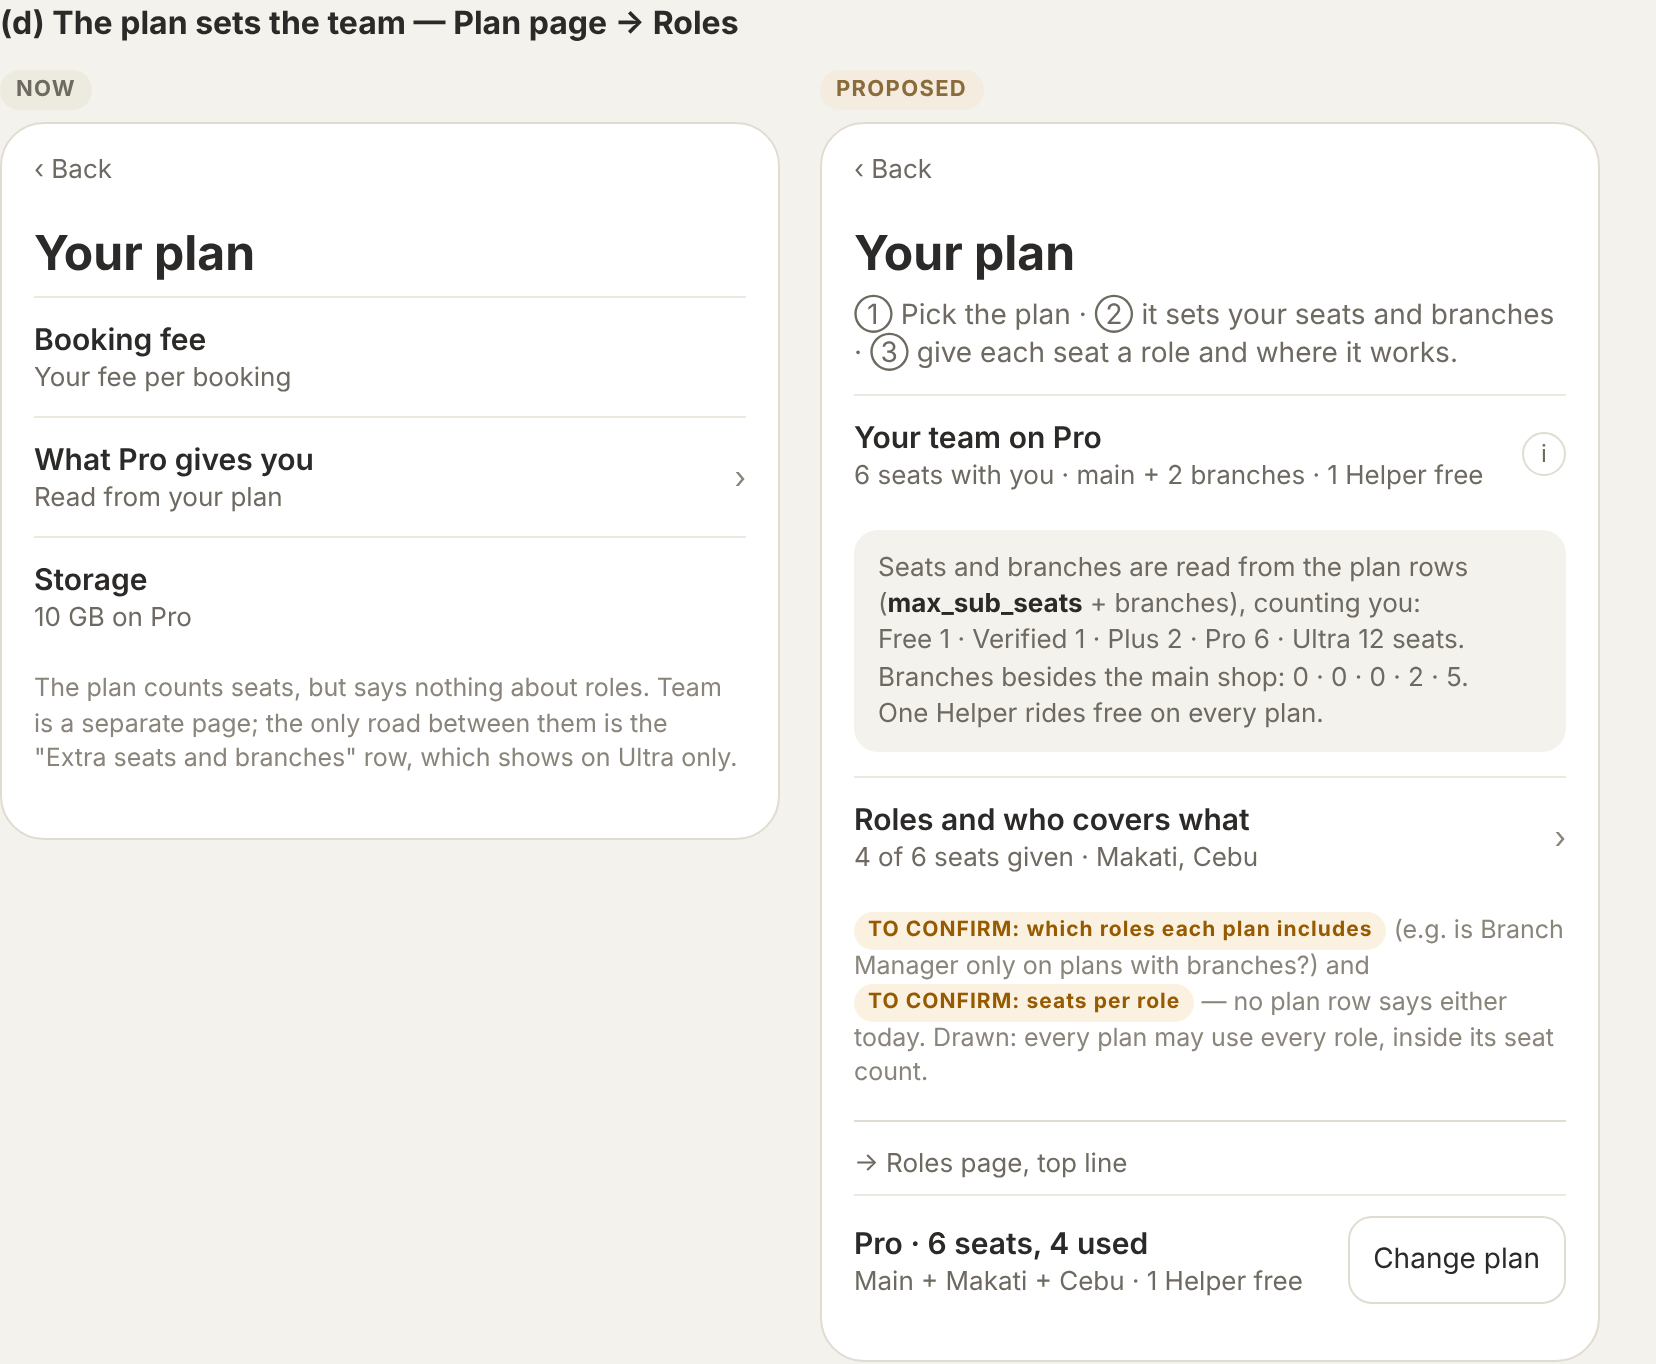
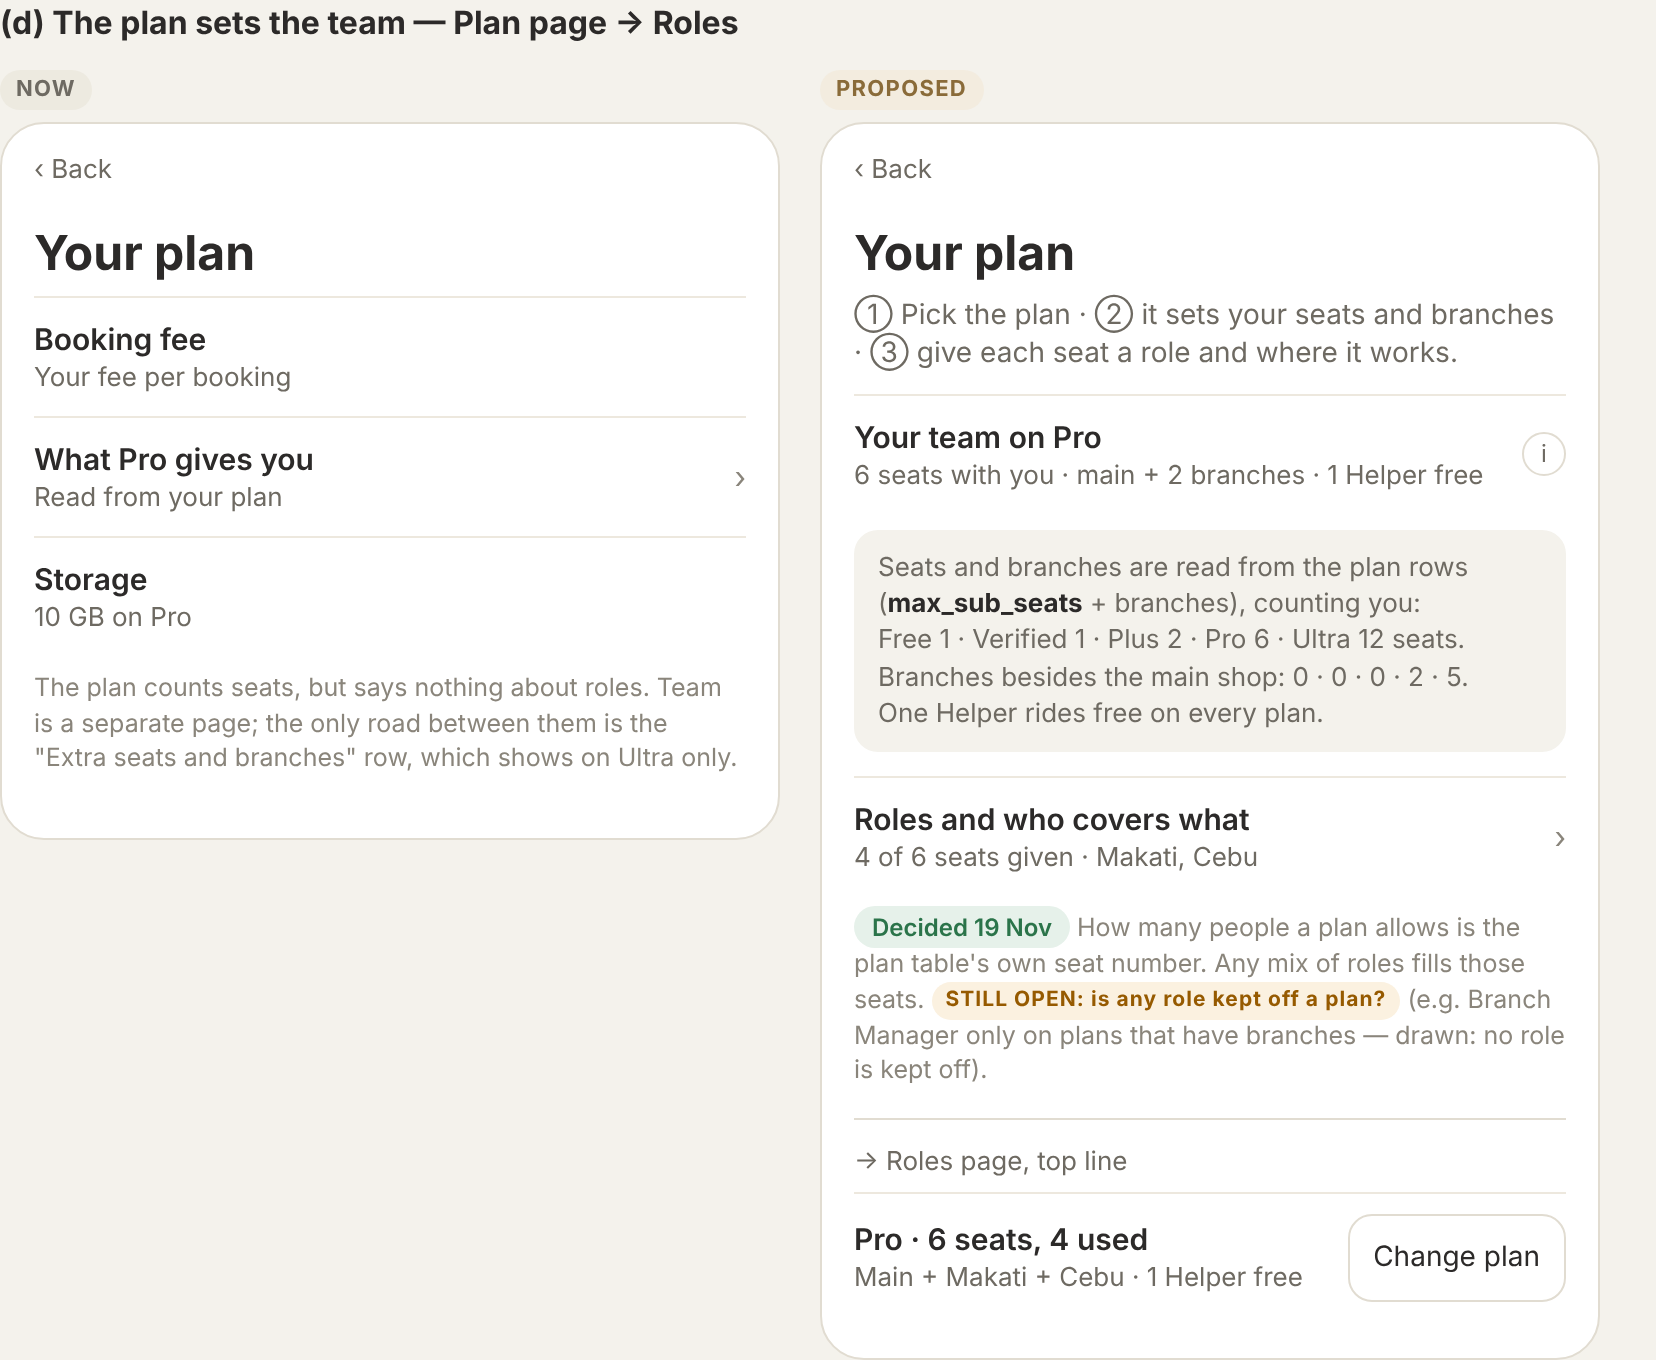
docs(supplier-team): owner answers — seats from the plan table, celebrant's last name routes, away falls to next AM then Branch Manager
Claude-Session: https://claude.ai/code/session_01EvosmSvHajsHkKkQLLinZb

diff --git a/build-sessions/SUPPLIER-ROLES-PAGE-2026-11-19.html b/build-sessions/SUPPLIER-ROLES-PAGE-2026-11-19.html
@@ -312,7 +312,7 @@
               </div></details>
             </div>
             <div class="row"><div class="grow"><div class="t">Roles and who covers what</div><div class="l">4 of 6 seats given · Makati, Cebu</div></div><span style="color:var(--slate-3)">›</span></div>
-            <p class="note"><span class="confirm">TO CONFIRM: which roles each plan includes</span> (e.g. is Branch Manager only on plans with branches?) and <span class="confirm">TO CONFIRM: seats per role</span> — no plan row says either today. Drawn: every plan may use every role, inside its seat count.</p>
+            <p class="note"><span class="badge ok">Decided 19 Nov</span> How many people a plan allows is the plan table's own seat number. Any mix of roles fills those seats. <span class="confirm">STILL OPEN: is any role kept off a plan?</span> (e.g. Branch Manager only on plans that have branches — drawn: no role is kept off).</p>
 
             <div style="margin-top:14px;padding-top:12px;border-top:1px solid var(--line)">
               <div class="l" style="margin-bottom:6px">→ Roles page, top line</div>
@@ -374,8 +374,8 @@
             </div>
 
             <p class="note">
-              <span class="confirm">TO CONFIRM: whose last name counts</span> — drawn: the person who sent the inquiry.<br>
-              <span class="confirm">TO CONFIRM: when that Account Manager is away</span> — drawn: it goes to the next Account Manager in the branch, then the Branch Manager.
+              <span class="badge ok">Decided 19 Nov</span> Whose last name: the main celebrant's (the groom, for a wedding); if the inquiry doesn't say, the person who sent it.<br>
+              <span class="badge ok">Decided 19 Nov</span> When that Account Manager is away: the next Account Manager in the branch, then the Branch Manager.
             </p>
           </div>
         </div>

diff --git a/build-sessions/SUPPLIER-ROLES-MAP-2026-11-19.md b/build-sessions/SUPPLIER-ROLES-MAP-2026-11-19.md
@@ -36,7 +36,7 @@ here; its rule is mirrored in code (`canManageVendor` → full nav) and is kept 
 | 1 | **Shop Manager** `shop_manager` | `admin` | Everything: team, plan, branches, money, shop page, all clients, day-of console. | Same. "Sees everything including branches." Unchanged. |
 | 2 | **Branch Manager** `branch_manager` | none (`admin` is whole-shop; `agent`+`whole_branch_keys` gives the branch's services but no team/money) | — | Everything a Shop Manager has, **for one branch**: that branch's clients, bookings, payments, event days, its team (invite/assign at or below their level, within the branch), its branch settings. Not the plan, not other branches, not shop-wide money settings. |
 | 3 | **Account Manager** `account_manager` | `agent` | Today + Clients for their assigned services (`vendor_service_agents`). No payments screen, day-of only with a grant. | Bookings, chat, payments and event day **for their own clients**, on their branch. One role (owner: "this is one role"). Their clients' event days without a separate grant. |
-| 4 | **Marketing** `marketing` | none | — | Shop page, cards, photos, promos, ads. **No bookings, no clients, no money.** Whole shop (TO CONFIRM). |
+| 4 | **Marketing** `marketing` | none | — | Shop page, cards, photos, promos, ads. **No bookings, no clients, no money.** Whole shop (decided 19 Nov). |
 | 5 | **Event Crew** `event_crew` | `viewer` + `vendor_event_access_grants` | Today (read) + the day-of console for granted events. | Hub and photos **for the events they're given** only. Nothing else. |
 | 6 | **Helper** `helper` | `viewer` | Today + Clients, read-only. | Sees the schedule, changes nothing. Stays the free seat (`FREE_HELPER_ROLE`). |
 
@@ -134,8 +134,9 @@ Plus one free Helper on every plan (`FREE_HELPER_SEATS`). ⚠ The live DB was **
 re-measure with `select sku_code, max_sub_seats from vendor_billing_catalog where sku_code like '%vendor_%'`. That
 migration names the top plan "Max" while the app labels `enterprise` "Ultra" — the drawing uses the app's label.
 
-**No plan row says which ROLES a plan includes, or how many seats each role may take** → both are drawn as
-**TO CONFIRM** (drawn default: every plan may use every role inside its seat count). Delta: the Plan page gets a
+**DECIDED (owner 19 Nov):** how many people a plan allows is the table's seat number (*"this is on our table
+already"*); any mix of roles fills it, so there is no per-role seat count. **STILL OPEN:** whether any role is kept off a
+plan (drawn: none is). Delta: the Plan page gets a
 "Your team on <plan>" row and a "Roles and who covers what ›" row into Team › Roles; the Roles page opens with the
 plan's line and "Change plan".
 
@@ -156,8 +157,9 @@ Proposed:
   `adjusted` re-splits A–Z evenly by letter, in join order (1 → A–Z · 2 → A–M / N–Z · 3 → A–H / I–Q / R–Z). An adjusted
   split is left alone and the manager sees "X joined · Reset to even?". Inquiries already handed out never move.
 - The inquiry gets an owner: a new `assigned_member_id` on the inquiry thread, set once when it arrives.
-- **TO CONFIRM:** whose last name counts (drawn: the person who sent the inquiry) · when that Account Manager is away
-  (drawn: the next Account Manager in the branch, then the Branch Manager).
+- **DECIDED (owner 19 Nov):** whose last name counts — *"the main celebrant/groom/who sent it"*, read as: the main
+  celebrant's last name (the groom for a wedding), falling back to the sender's when the inquiry has none · when that Account Manager is away
+  — *"yes"*: the next Account Manager in the branch, then the Branch Manager.
 
 ## 4 · Order of work (after the owner OKs the drawing)
 
